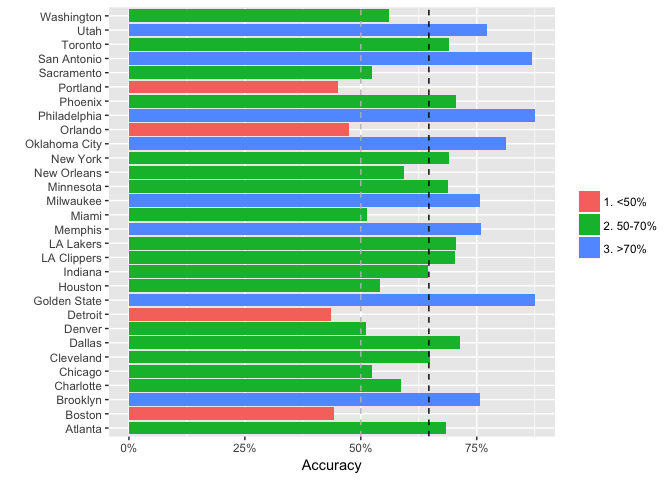
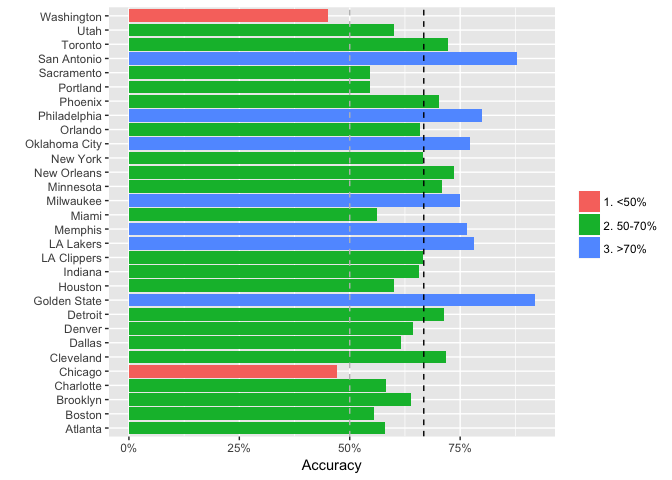
editing readme

diff --git a/readme.md b/readme.md
@@ -188,30 +188,30 @@ kable(all_rankings)
 | LA Clippers   | West       | Pacific   |                 3|                2|
 | Atlanta       | East       | Southeast |                 4|               12|
 | Chicago       | East       | Central   |                 5|                6|
-| Houston       | West       | Southwest |                 6|                6|
-| San Antonio   | West       | Southwest |                 7|                4|
-| Portland      | West       | Northwest |                 8|               13|
-| Oklahoma City | West       | Northwest |                 9|                9|
-| Toronto       | East       | Atlantic  |                10|                5|
+| Toronto       | East       | Atlantic  |                 6|                5|
+| Portland      | West       | Northwest |                 7|               13|
+| San Antonio   | West       | Southwest |                 8|                4|
+| Houston       | West       | Southwest |                 9|                6|
+| Oklahoma City | West       | Northwest |                10|                9|
+| Boston        | East       | Atlantic  |                11|               11|
 | Charlotte     | East       | Southeast |                11|                9|
-| Boston        | East       | Atlantic  |                12|               11|
 | Utah          | West       | Northwest |                13|                6|
-| LA Lakers     | West       | Pacific   |                14|               19|
-| Memphis       | West       | Southwest |                15|               13|
-| Milwaukee     | East       | Central   |                16|               23|
-| Denver        | West       | Northwest |                17|               17|
-| Indiana       | East       | Central   |                18|               21|
+| Memphis       | West       | Southwest |                14|               13|
+| LA Lakers     | West       | Pacific   |                15|               19|
+| Denver        | West       | Northwest |                16|               17|
+| Orlando       | East       | Southeast |                16|               20|
+| Minnesota     | West       | Northwest |                18|               16|
 | Detroit       | East       | Central   |                19|               15|
-| Orlando       | East       | Southeast |                20|               20|
-| New York      | East       | Atlantic  |                21|               18|
-| Minnesota     | West       | Northwest |                22|               16|
+| Indiana       | East       | Central   |                19|               21|
+| Milwaukee     | East       | Central   |                19|               23|
+| New York      | East       | Atlantic  |                22|               18|
 | Sacramento    | West       | Pacific   |                23|               25|
 | Brooklyn      | East       | Atlantic  |                24|               29|
-| Washington    | East       | Southeast |                24|               21|
-| Phoenix       | West       | Pacific   |                26|               28|
+| Phoenix       | West       | Pacific   |                25|               28|
+| Washington    | East       | Southeast |                25|               21|
+| Dallas        | West       | Southwest |                27|               26|
+| Miami         | East       | Southeast |                27|               23|
 | New Orleans   | West       | Southwest |                27|               27|
-| Miami         | East       | Southeast |                28|               23|
-| Dallas        | West       | Southwest |                29|               26|
 | Philadelphia  | East       | Atlantic  |                30|               30|
 
 The table shows that the elastic rankings generally agree with FiveThirtyEight -- at least when it comes to the "tail teams." For example, all rankings agree that Golden State, Cleveland and the Clippers will have strong seasons, while Philadelphia and New Orleans will struggle to win games.
@@ -263,7 +263,7 @@ The model was used to predict all games from 2015-11-20 to the end the 2015-2016
 
 The game level accuracy for the entire period was 64.7% -- i.e., the model predicted the correct winner for 64.7% of games.
 
-The [area under the ROC curve](https://en.wikipedia.org/wiki/Receiver_operating_characteristic) was 0.725.
+The [area under the ROC curve](https://en.wikipedia.org/wiki/Receiver_operating_characteristic) was 0.744.
 
 The code below compares the actual rankings to the predicted rankings (note that this table only covers the games played after 2015-11-19):
 
@@ -296,7 +296,7 @@ ggplot(ranks, aes(x=rank_pred, y=rank_actual)) +
 
 The predicted team rankings were also in line with the actual team rankings, except for some significant misses like the Chicago Bulls, Denver and Portland. There might be good reasons why the model misjudged these teams given the fact that these predictions were made only 11 games into the season. More investigation needed here.
 
-Next, let's check the *game-level* match-rates for the predictions. The chart below shows the game-level accuracy for each team. The vertical lines show the overall match rate (64.7%) as well as the match rate we would get from a random draw (50%):
+Next, let's check the *game-level* match-rates for the predictions. The chart below shows the game-level accuracy for each team. The vertical lines show the overall match rate (65.8%) as well as the match rate we would get from a random draw (50%):
 
 ``` r
 library(dplyr)
@@ -331,7 +331,7 @@ mutate(game_level, match=as.numeric(selected_team_win==d_pred_selected_team_win)
 print(paste0("AUROC = ", AUC(game_level$selected_team_win, game_level$prob_selected_team_win_d)[1]))
 ```
 
-    ## [1] "AUROC = 0.725354145468453"
+    ## [1] "AUROC = 0.744458919137388"
 
 Note that the model is most accurate for the "tail teams" such as Golden State and Philadelphia, which is to be expected. There are a some teams where the model completely missed the mark -- such as Boston or Portland, but overall is the model is doing fairly well considering length of the forecast window.
 
